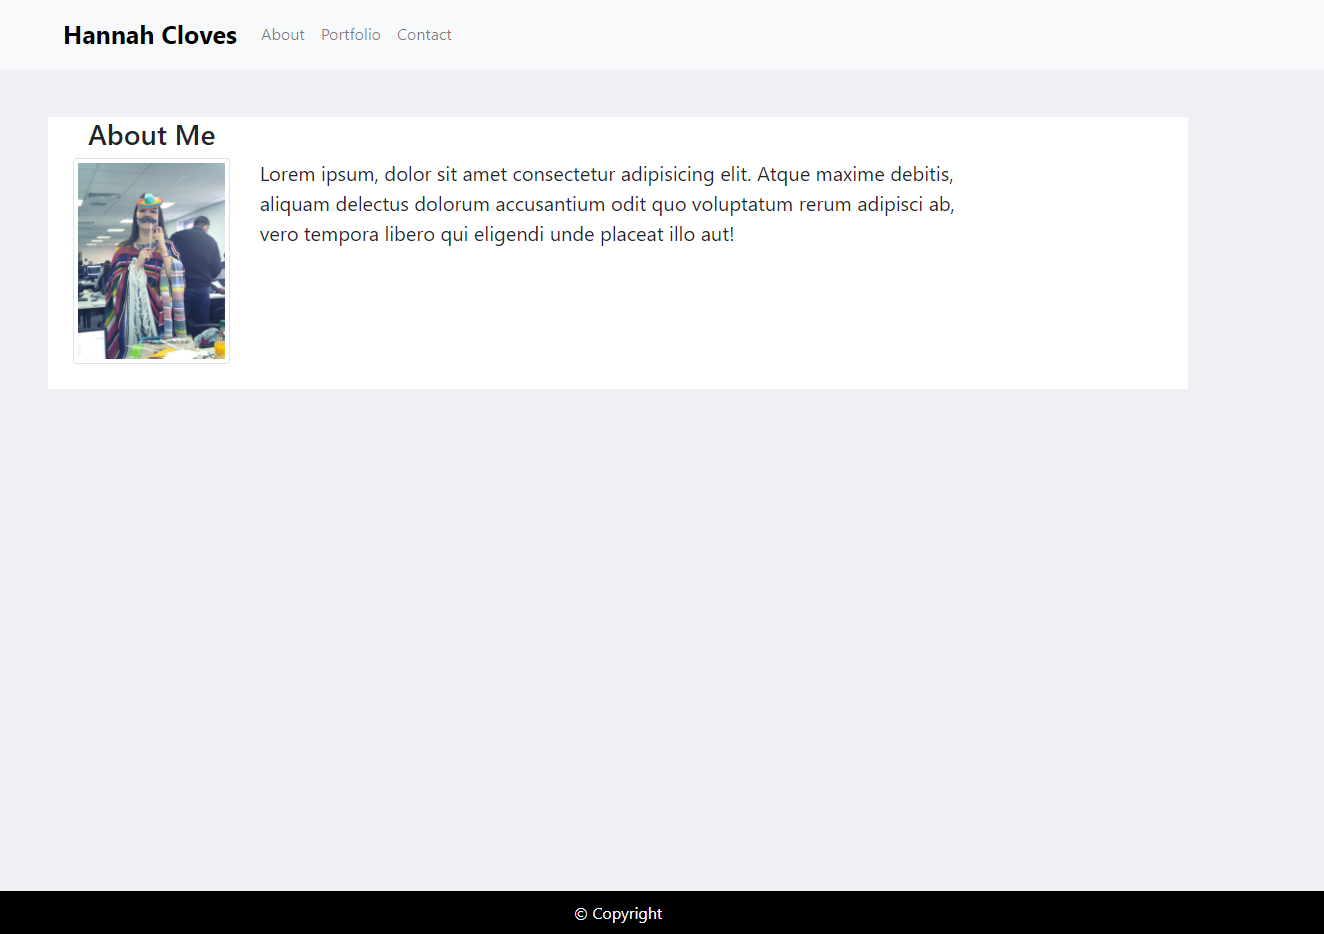
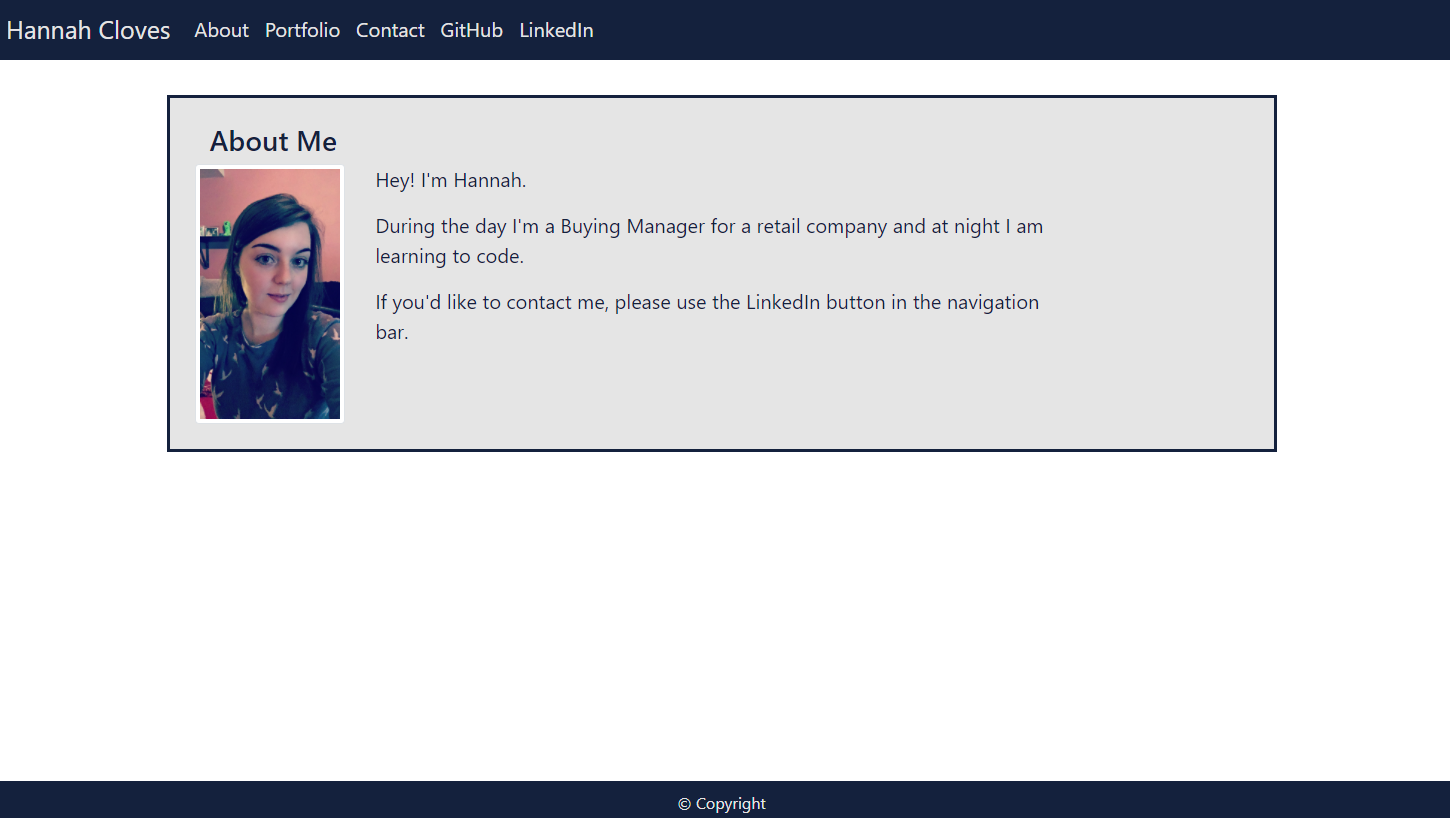
added in images and links to portfolio page

diff --git a/portfolio.html b/portfolio.html
@@ -3,11 +3,13 @@
 
 <head>
     <meta charset="UTF-8" />
-    <meta name="viewport" content="width=device-width, initial-scale=1.0"/>
-    <link rel="stylesheet" href="https://stackpath.bootstrapcdn.com/bootstrap/4.5.2/css/bootstrap.min.css" integrity="sha384-JcKb8q3iqJ61gNV9KGb8thSsNjpSL0n8PARn9HuZOnIxN0hoP+VmmDGMN5t9UJ0Z" crossorigin="anonymous"/>
-    <link rel="stylesheet" href= "style.css"/>
+    <meta name="viewport" content="width=device-width, initial-scale=1.0" />
+    <link rel="stylesheet" href="https://stackpath.bootstrapcdn.com/bootstrap/4.5.2/css/bootstrap.min.css"
+        integrity="sha384-JcKb8q3iqJ61gNV9KGb8thSsNjpSL0n8PARn9HuZOnIxN0hoP+VmmDGMN5t9UJ0Z" crossorigin="anonymous" />
+    <link rel="stylesheet" href="style.css" />
     <title>Hannah's Portfolio</title>
 </head>
+
 <body>
     <nav class="navbar navbar-expand-lg">
         <a class="navbar-brand" href="index.html" id="name">Hannah Cloves</a>
@@ -35,48 +37,48 @@
             </ul>
         </div>
     </nav>
-    
-    <main class= "container">
+
+    <main class="container">
         <section class="row">
-        <article class= "info">
-            <div class="col-12">
-                <h3>Portfolio</h3>
-            </div>
-            <div class="row col-12">
-                <div class="col-12 col-md-6 col-lg-6">
-                    <img src="https://via.placeholder.com/200" alt="placeholder" class="img-thumbnail">
+            <article class="info">
+                <div class="col-12">
+                    <h3>Portfolio</h3>
                 </div>
-                <div class="col-12 col-md-6 col-lg-6">
-                    <img src="https://via.placeholder.com/200" alt="placeholder" class="img-thumbnail">
+                <div class="row col-12">
+                    <div class="col-6 col-md-6 col-lg-6">
+                        <a href="https://hannahcloves.github.io/SPACE-DASH/" target="_blank">
+                            <img src="Assets/Spaceman.jpg" alt="SPACE-DASH" class="img">
+                        </a>
+                    </div>
+                    <div class="col-6 col-md-6 col-lg-6">
+                        <a href="https://hannahcloves.github.io/06-Weather-App/" target="_blank">
+                            <img src="Assets/WeatherPic.jpg" alt="Weather App" class="img">
+                        </a>
+                    </div>
+
+                    <div class="col-12 col-md-6 col-lg-6">
+                        <a href="https://hannahcloves.github.io/05-Day-Planner/" target="_blank">
+                            <img src="Assets/Scheduler.jpg" alt="Calender" class="img">
+                        </a>
+                    </div>
+                    <div class="col-12 col-md-6 col-lg-6">
+                        <a href="https://hannahcloves.github.io/4-Code-Quiz/" target="_blank">
+                        <img src="Assets/Quiz.jpg" alt="Quiz" class="img">
+                        </a>
+                    </div>
                 </div>
-            </div>
-            <div class="row col-12">
-                <div class="col-12 col-md-6 col-lg-6">
-                    <img src="https://via.placeholder.com/200" alt="placeholder" class="img-thumbnail">
-                </div>
-                <div class="col-12 col-md-6 col-lg-6">
-                    <img src="https://via.placeholder.com/200" alt="placeholder" class="img-thumbnail">
-                </div>       
-            </div>
-            <div class="row col-12">
-                <div class="col-12 col-md-6 col-lg-6">
-                    <img src="https://via.placeholder.com/200" alt="placeholder" class="img-thumbnail">
-                </div>
-                <div class="col-12 col-md-6 col-lg-6">
-                    <img src="https://via.placeholder.com/200" alt="placeholder" class="img-thumbnail">
-                </div>        
-            </div>
-        </article>  
-       </section>
+            </article>
+        </section>
     </main>
 
 
 
-<footer>
-    © Copyright
-</footer>
-    
-<script type="text/javascript" src="https://cdnjs.cloudflare.com/ajax/libs/jquery/3.2.1/jquery.min.js"></script> 
-<script src="https://maxcdn.bootstrapcdn.com/bootstrap/4.0.0/js/bootstrap.min.js"></script>
+    <footer>
+        © Copyright Hannah Cloves
+    </footer>
+
+    <script type="text/javascript" src="https://cdnjs.cloudflare.com/ajax/libs/jquery/3.2.1/jquery.min.js"></script>
+    <script src="https://maxcdn.bootstrapcdn.com/bootstrap/4.0.0/js/bootstrap.min.js"></script>
 </body>
+
 </html>

diff --git a/index.html b/index.html
@@ -43,14 +43,15 @@
             <div class="col-12">
                 <h3>About Me</h3>
             </div>
-            <div class="row">
-                <div class="col-6 col-md-4 col-lg-2">
+            <div class="row col-12">
+                <div class="col-6 col-md-4 col-lg-2" id="imgProfile">
                     <img src="Assets/HannahPP.JPG" alt="Profile Picture" class="img-thumbnail" />
                 </div>
-                <div class="col-5 col-md-6 col-lg-8">
+                <div class="col-6 col-md-8 col-lg-10" id="bioProfile">
                     <p>Hey! I'm Hannah.</p>
                     <p>During the day I'm a Buying Manager for a retail company and at night I am learning to code.</p>
                     <p>If you'd like to contact me, please use the LinkedIn button in the navigation bar.</p>
+                    <p>Feel free to have a look at my portfolio page to see what I've been working on!</p>
 
                 </div>
             </div>
@@ -58,7 +59,7 @@
     </main>
 
     <footer>
-        © Copyright
+        © Copyright Hannah Cloves
     </footer>
 
 

diff --git a/style.css b/style.css
@@ -1,19 +1,19 @@
 /*background colour for all html pages */
 body {
-  background-color: #FFFFFF;
+  background-color: #ffffff;
 }
 
 /* styling for navigation bar */
-.navbar, a {
-color: #e5e5e5;
+.navbar,
+a {
+  color: #e5e5e5;
   font-size: 20px;
   background-color: #14213d;
 }
 
 #name {
-    font-size: 25px;
+  font-size: 25px;
 }
-
 
 /* styling for main information box */
 
@@ -24,12 +24,11 @@ color: #e5e5e5;
 }
 
 .info {
-  background-color: #E5E5E5;
+  background-color: #e5e5e5;
   font-size: 20px;
   padding: 25px;
   border-style: solid;
   border-color: #14213d;
-
 }
 
 /* styling for footer */
@@ -42,4 +41,18 @@ footer {
   background-color: #14213d;
   color: #e5e5e5;
   text-align: center;
+}
+
+.img {
+    max-width: 50%;
+    height: auto;
+  }
+
+@media screen and (max-width: 600px) {
+  #imgProfile {
+    display: none;
+  }
+  #bioProfile {
+    text-align: center;
+  }
 }

diff --git a/contact.html b/contact.html
@@ -71,7 +71,7 @@
         </section>
     </main>
     <footer>
-        © Copyright
+        © Copyright Hannah Cloves
     </footer>
     <script type="text/javascript" src="https://cdnjs.cloudflare.com/ajax/libs/jquery/3.2.1/jquery.min.js"></script>
     <script src="https://maxcdn.bootstrapcdn.com/bootstrap/4.0.0/js/bootstrap.min.js"></script>

diff --git a/README.md b/README.md
@@ -6,19 +6,22 @@ The portfolio website has 3 main pages;
 2. Contact Page
 3. Portfolio Page
 
-and 2 externally linked pages
+and 2 externally linked pages;
+4. GitHub Porfolio
+5. LinkedIn Page
 
 To access the page, please use link https://hannahcloves.github.io/2-Responsive-Portfolio/
 
 ### Overview
+A porfolio page to showcase 
 Each page has a nav bar and footer that is consistant on each page. There are 3 pages linked in the nav bar that take you to different parts of the website.
 
 *******************************************************
 
 ### Main Page (About Me Page)
-This page holds a title, with an image of the person and a little blurb about them.
+This is the initial load page, where it will show an image and a short bio. There is also a navigation bar at the top to navigate through the different pages.
 
-![About Me Page](/Assets/AboutMePage.png)
+![About Me Page](/Assets/AboutMePage.PNG)
 
 *******************************************************
 
@@ -33,3 +36,11 @@ This page currently holds place holder images. In the future these will turn int
 This page holds a form where you can fill out your name, email address and a message that can be sent to the owner of the page.
 
 ![Contact Page](/Assets/ContactPage.png)
+
+
+### Credits
+
+![Snow vector created by bamdewanto - www.freepik.com](https://www.freepik.com/vectors/snow)
+![Logo vector created by catalyststuff - www.freepik.com](https://www.freepik.com/vectors/logo)  
+![Calendar vector created by stories - www.freepik.com](https://www.freepik.com/vectors/calendar)
+![Background vector created by freepik - www.freepik.com](https://www.freepik.com/vectors/background)
